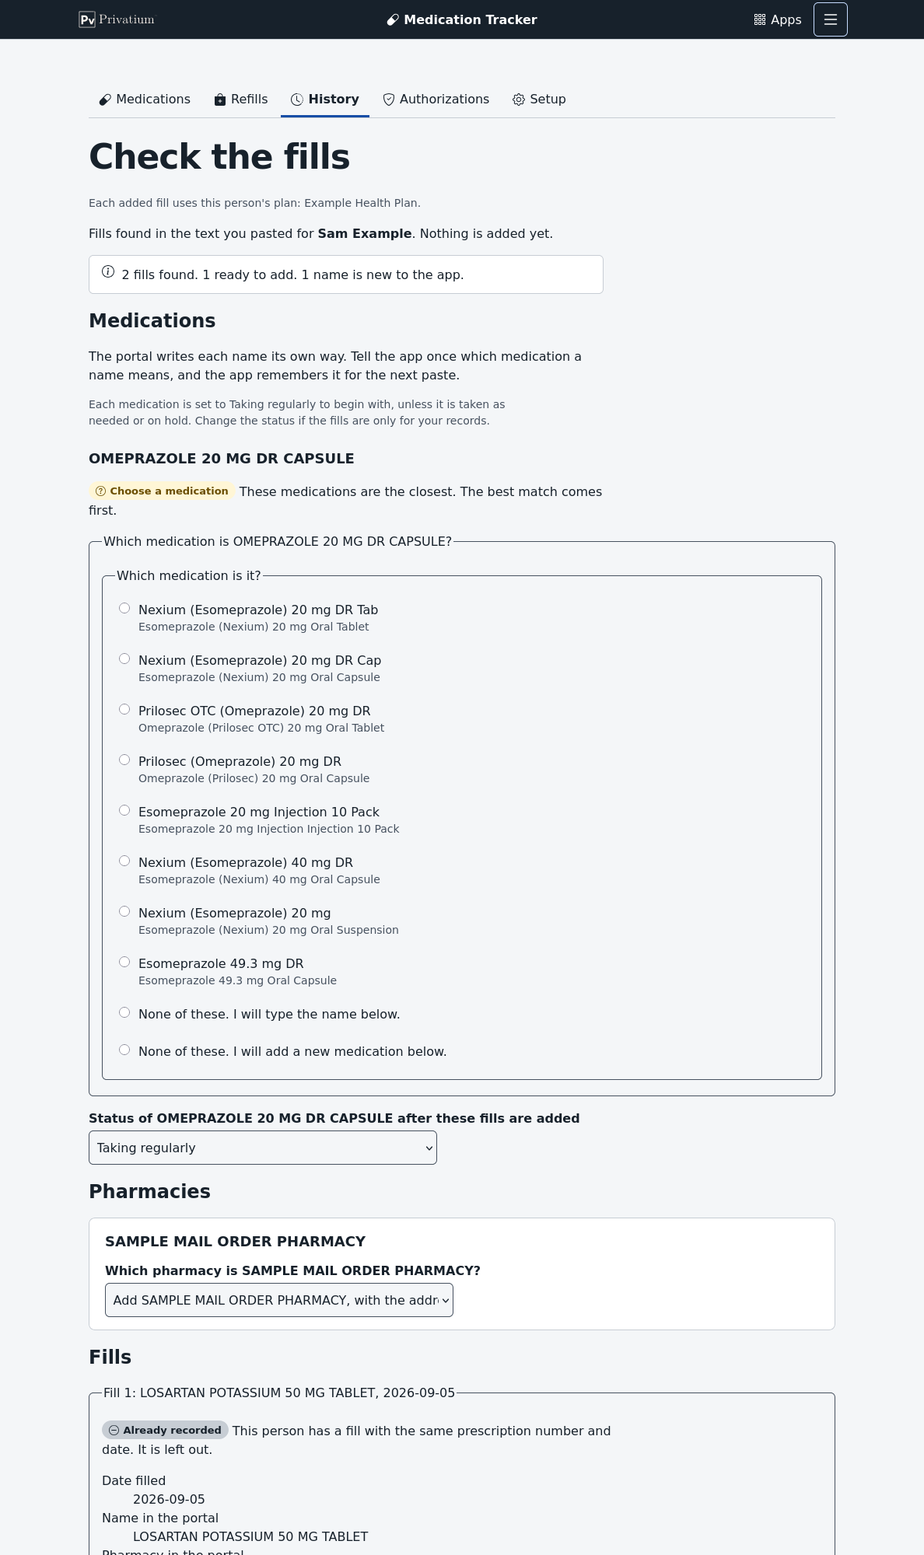
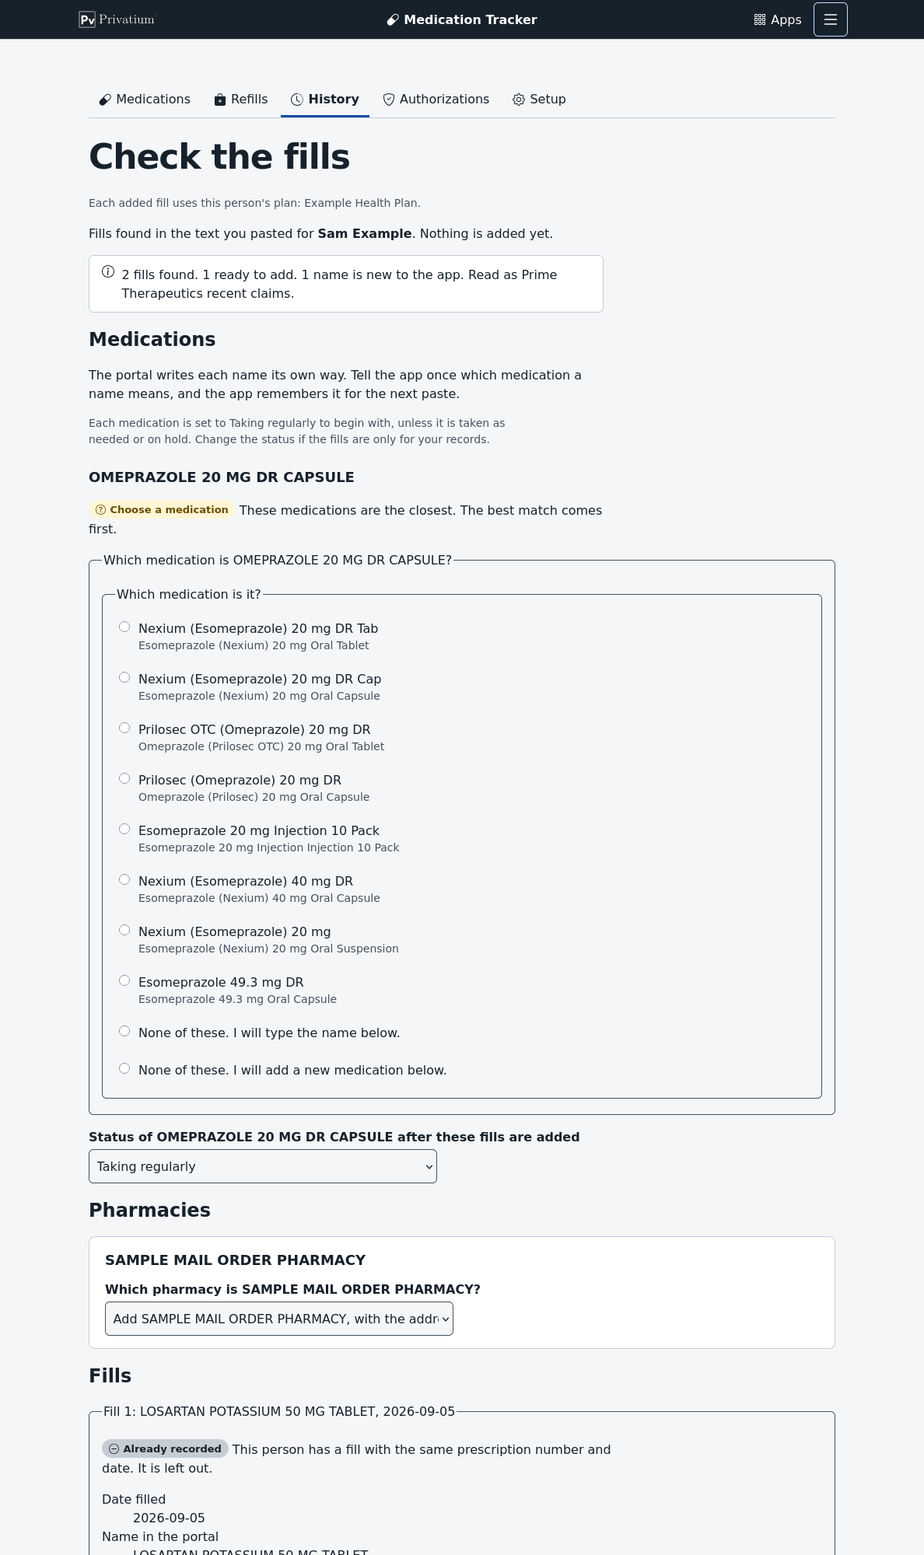
Document the portal pages the app reads
The user guide lists each page the app reads and how to copy it, and says
that pages listing medications without fill dates have nothing to read. The
architecture page describes the reader order, each page's layout with an
invented example, and the phone step of pharmacy matching. Compliance, the
app skill, the glossary, the testing how-to and the README follow, and the two
paste screenshots are retaken.

Changed region(s): [[0.0934, 0.186, 0.654, 1.0], [0.5918, 0.899, 0.6229, 0.93], [0.5295, 0.899, 0.5606, 0.93]]

diff --git a/docs/architecture.md b/docs/architecture.md
@@ -5,8 +5,8 @@ Author(s): Gabriel Mongefranco
 Created: 2026-09-26
 Last Modified: 2026-10-05
 Summary: How the app is built: its parts, the page frame and in-document navigation, the
-         rules every browser script follows, the product box, the reader of pasted portal
-         text, the catalog and the drug references, and the accessibility and security
+         rules every browser script follows, the product box, the readers of pasted portal
+         pages, the catalog and the drug references, and the accessibility and security
          design.
 Notes: See README file for documentation and full license information.
 
@@ -39,7 +39,7 @@ the SQLite tables from the log on every start.
 |---|---|---|
 | Manifest | `apps/meds/app.toml` | Slug, title, tier, icon, the three drug reference addresses under `permissions.remote`, and the `[ui]` table with the stylesheet, the scripts and swap navigation |
 | Routes | `apps/meds/lib/routes/` | One module per part of the app. `app.lua` requires them in the order paths are tried. |
-| Shared Lua | `apps/meds/lib/` | Form checks, names, matching, refill words, the portal reader and the one module that writes records (`store.lua`). Modules with no framework calls are unit-tested with plain Lua. |
+| Shared Lua | `apps/meds/lib/` | Form checks, names, matching, refill words, the portal reader with one reader per portal page under `lib/portals/`, and the one module that writes records (`store.lua`). Modules with no framework calls are unit-tested with plain Lua. |
 | Schema | `apps/meds/schema.sql` | Tables and views, including `v_supply` and `v_active_medication`, which work out the refill dates in SQL |
 | Templates | `apps/meds/views/` | One template per page. A name starting with `_` is a partial. |
 | Browser scripts | `apps/meds/static/*.js` | Five small scripts that improve forms. Every form works without them. |
@@ -203,9 +203,35 @@ close match.
 ### Pasted portal text
 
 `lib/portal_reader.lua` takes the pasted text of a portal page apart into claims. It
-looks for the labels the portal prints and takes the value after each one. This
-invented example shows the layout it reads. The portal runs the columns of a row
-together, as the second line shows.
+works out which page the text came from and hands it to that page's reader under
+`lib/portals/`. Each reader looks for the labels or columns its page prints and takes
+the values. All readers return claims of the same shape, so the review and add steps
+below are the same for every page. The readers are pure Lua, and `lib/portals/common.lua`
+holds the pieces they share: dates, amounts, phone numbers and tab-separated rows.
+
+The reader asks the pages in this order, and the first page that recognizes the text
+reads it. The claims page only looks for lines that open with a date, which the export
+rows also do, so it is asked last.
+
+| Order | Page | Module | Recognized by |
+|---|---|---|---|
+| 1 | Prime Therapeutics claims history export, copied from a spreadsheet | `portals/prime_export.lua` | A tab-separated heading row with Date of Service and Drug Name |
+| 2 | DromosPTM patient tax statement | `portals/dromos_statement.lua` | A row whose cells are empty, a date such as Oct 02, 2026, and a prescription number |
+| 3 | MyChart medications | `portals/mychart.lua` | A Refill Details line and a Pharmacy Details line |
+| 4 | Prime Therapeutics recent claims | `portals/prime_claims.lua` | A line that opens with a date written month/day/year |
+
+The review page names the page in its summary, such as "Read as MyChart medications."
+Pages that list medications without fill dates, such as the RxLocal medication list and
+the DromosPTM prescriptions list, are not read. A pasted text that no page recognizes
+gives a message that names the pages the app reads. No reader captures the HTML of the
+clipboard. The plain text of every page above keeps the boundaries the readers need,
+and the HTML of a page is many times larger than the 64 kilobytes a request holds.
+
+#### Prime Therapeutics recent claims
+
+This invented example shows the layout. The portal runs the columns of a row together,
+as the second line shows. The pharmacy name that stands alone in the details is what
+splits the drug name from the pharmacy name.
 
 ```text
 SERVICE DATEDRUG NAMEPHARMACYPLAN PAIDYOU PAIDCLAIM STATUS
@@ -244,11 +270,91 @@ $5.00
 | SERVICE DATE | The fill date, written month, day, year |
 | DRUG NAME | The medication, matched as below |
 | PHARMACY ID | The pharmacy, matched by its NPI |
-| PHARMACY | The pharmacy, matched by name when no NPI matches |
+| PHARMACY | The pharmacy, matched by phone number or name when no NPI matches |
 | RX NUMBER | The prescription number |
 | DAYS SUPPLY, QUANTITY | The days supply and the quantity |
 | Patient Responsibility | The amount paid |
 | Plan Paid, Deductible, CLAIM STATUS | Shown in the review, never stored |
+
+A claim whose details were closed has no prescription number or days supply. The
+review marks it **Details missing**.
+
+#### Prime Therapeutics claims history export
+
+The export is a file. A spreadsheet program copies it as rows of cells separated by
+tabs, with a heading row. The reader finds each column by its heading, so a change in
+the order of the columns does not break it. A cell that holds line breaks arrives in
+quotation marks, which the reader takes off. Shown here with `→` for each tab:
+
+```text
+Rx Number→Date of Service→Drug Name→Quantity→Days Supply→Pharmacy→Pharmacy ID→Plan Paid Amount→Patient Responsibility→Deductible→Claim Status
+100001→09/20/2026→EXAMPLINE 10 MG TABLET→30→30→EXAMPLE PHARMACY 1 EXAMPLE ST ANYTOWN, MI 48000 (555) 555-0100→1234567893→$12.00→$5.00→$0.00→Paid
+```
+
+The headings go to the same fields as the labels of the claims page. When the Pharmacy
+cell runs its parts together on one line, the phone number is split off the end, and the
+name ends before the first word made only of digits, where the street address starts.
+A claim with the status Denied is **Not paid**.
+
+#### MyChart medications
+
+MyChart lists prescriptions, not fills. Each medication that shows a **Last filled**
+date gives one fill, the most recent. The review summary counts the medications with no
+fill date, which are left out. A medication starts on its name, the line just before
+"Generic name:", "Commonly known as:" or "Learn more". A browser may copy a value on the
+same line as its label or on the next line, and the reader takes either.
+
+```text
+Examplol 10 mg tablet
+Generic name: exampline
+Learn more
+Prescription Details
+Prescription number100001-02
+Refill Details
+Quantity30 tablets
+Day supply30
+Last filledSeptember 3, 2026
+Pharmacy Details
+Example Pharmacy - Anytown, MI - 1 Example Street
+1 Example Street, Anytown MI 48000
+555-555-0100
+Map
+```
+
+| Label | Goes to |
+|---|---|
+| Last filled | The fill date |
+| Prescription number | The prescription number |
+| Quantity | The quantity, without its unit |
+| Day supply | The days supply |
+| Pharmacy Details | The pharmacy name, address and phone number, up to Map |
+
+The page gives no amount paid and no claim status, so a complete fill is **Ready**. The
+reader ignores the prescriber, the refill count and the next fill date.
+
+#### DromosPTM patient tax statement
+
+The statement lists one fill a row, with its cells separated by tabs. A copy rarely
+includes the heading row, so the reader knows the columns by their place on the page:
+Date Sold, Rx Number, Medication, Quantity, Days Supply, Doctor, Pharmacy, Primary
+Insurance / Cash, Insurance Portion and Patient Copay, after a first column that holds
+a button. The Medication cell has the product number (NDC) on a second line, and the
+Pharmacy cell has the phone number on a second line. So a row runs on over the next
+lines until it has all its cells.
+
+```text
+ →Sep 03, 2026→100001→EXAMPLINE 10MG TABS
+NDC: 00000-0000-00→30→30→Dr. PAT SAMPLE→Example Pharmacy
+(555) 555-0100→EXAMPLE PLAN→$12.00→$5.00
+```
+
+Patient Copay is the amount paid, and Insurance Portion is shown in the review as what
+the plan paid. The product number and the doctor are not stored. In a narrow window
+the page hides columns, so a row with fewer cells is left out rather than read into the
+wrong fields, and the review summary says to widen the window. When the copy does hold
+the heading row, the reader finds the columns by heading instead.
+
+#### Matching
 
 For each drug name, the app looks for a medication in this order:
 
@@ -265,6 +371,13 @@ Prescription numbers are compared without hyphens and spaces, through `fills.rx_
 and only within one person. Step 3 compares whole words and whole strengths, so "5 mg"
 is not found in "0.5 mg" or "25 mg". When two medications pass a step, the app picks
 neither. The portal's name is saved as another name of the medication chosen.
+
+For each pharmacy, the app looks for one it knows by NPI first, then by phone number,
+then by name. Phone numbers are compared by their digits, without a leading country code
+1, and only when they have at least ten digits. A phone number that two known
+pharmacies share picks neither. The phone step exists because portals write the same
+pharmacy's name in different ways, with or without its town and street. A known
+pharmacy is used as it is; any other is offered to add, with the details from the page.
 
 A fill is already recorded when the person has a fill with the same prescription number
 and date, or a fill of the same tracked medication on the same date. The second rule

diff --git a/docs/usage.md b/docs/usage.md
@@ -82,7 +82,7 @@ offline. Changes you make offline are kept and sent when the connection comes ba
 3. Add each person's medicines, as [Add a medicine to someone's list](#add-a-medicine-to-someones-list)
    shows.
 4. Record the last fill of each medicine, so the app can work out the next one. You can
-   type it, or copy it from your insurance website.
+   type it, or [copy it from a portal website](#copy-fills-from-a-portal-website).
 
 You don't have to set everything up first. Whenever a form asks for a person, doctor,
 pharmacy or plan that isn't in the app yet, you can add it right there.
@@ -226,22 +226,35 @@ page and pick the medicine. If nobody tracks that medicine yet, choose **-- Anot
 medication --**, pick the person and find the product. Saving the fill also adds the
 medicine to that person's list.
 
-### Copy fills from your insurance website
+### Copy fills from a portal website
 
-![The Copy refill history from patient portal page. A drop-down asks who the refill history belongs to, and a large box holds text copied from a portal.](images/copy-refill-history.png)
+![The Copy refill history from patient portal page. It lists the four portal pages the app reads, with how to copy each. Below, a drop-down asks who the refill history belongs to, and a large box holds text copied from a portal.](images/copy-refill-history.png)
 
-Your insurance plan's or pharmacy's website, often called a patient portal, lists the
-fills it paid for. Instead of typing each one, you can copy the list and let the app read
+Your insurance plan's, pharmacy's or doctor's website, often called a patient portal,
+lists your fills. Instead of typing each one, you can copy the list and let the app read
 it. Nothing is added until you check it.
 
-1. On the portal, open the details of each fill, so they show on the screen.
-2. Select the list from the first date to the end of the last fill, and copy it.
-3. In the app, choose **Refills**, then **Copy refill history from patient portal**.
-4. Choose who the fills belong to, paste the text and choose **Read the text**.
-5. Check the review page, described below.
-6. Choose **Add fills**.
+The app reads these pages. The table says how to copy each one.
 
-![The review page, titled Check the fills. A summary says 2 fills found, 1 ready to add and 1 name new to the app. For the portal name OMEPRAZOLE 20 MG DR CAPSULE, the page lists the closest catalog products to choose from, then a status drop-down set to Taking regularly. Below, a new pharmacy is offered to add, and the first fill is marked Already recorded.](images/copy-refill-history-review.png)
+| Website and page | How to copy it |
+|---|---|
+| Prime Therapeutics, **Recent claims** | Open the details of each fill with **More Info**. Then select the list from the first date to the end of the last fill. |
+| Prime Therapeutics, claims history export | Download the export and open the file in a spreadsheet program, such as LibreOffice Calc or Excel. Select the table, headings included. |
+| MyChart, **Medications** | Select the whole list. MyChart shows only the most recent fill of each medicine, so you get one fill per medicine. |
+| DromosPTM pharmacy websites, such as Henry Ford and Meijer, **Patient tax statement** | Use a computer, and make the window wide enough to show every column. Then select the table. |
+
+Some pages list your medicines but no fill dates, such as the RxLocal medication list
+and the DromosPTM prescriptions list. They have no fills to copy. Use the pages above
+instead.
+
+1. On the website, open the page and copy it as the table says.
+2. In the app, choose **Refills**, then **Copy refill history from patient portal**.
+3. Choose who the fills belong to, paste the text and choose **Read the text**.
+4. Check the review page, described below. Its summary names the page the app read,
+   such as "Read as MyChart medications".
+5. Choose **Add fills**.
+
+![The review page, titled Check the fills. A summary says 2 fills found, 1 ready to add and 1 name new to the app, read as Prime Therapeutics recent claims. For the portal name OMEPRAZOLE 20 MG DR CAPSULE, the page lists the closest catalog products to choose from, then a status drop-down set to Taking regularly. Below, a new pharmacy is offered to add, and the first fill is marked Already recorded.](images/copy-refill-history-review.png)
 
 The review page asks about each medicine name and each pharmacy only once, however many
 fills use it.
@@ -265,25 +278,27 @@ person takes the medicine. A medicine that is **Taking as needed** or **On hold*
 its status instead. If you are only copying old fills for your records, pick the status
 the medicine should keep, such as **No longer taking**.
 
-**Pharmacies.** The app matches a pharmacy by its number or its name. For a new one, it
-offers to add it with the address and phone number from the portal.
+**Pharmacies.** The app matches a pharmacy by its NPI number, then by its phone number,
+then by its name. The phone number helps when two websites write the same pharmacy's
+name differently. For a new pharmacy, the app offers to add it with the address and
+phone number from the portal.
 
 **Fills.** Each fill has a check box labeled **Add this fill**.
 
 | Result | What it means |
 |---|---|
 | Ready | Everything was read. The box is ticked for you. |
-| Not paid | The plan didn't pay this claim. Tick it only if you did get the medicine. |
+| Not paid | The plan didn't pay this claim, or denied it. Tick it only if you did get the medicine. |
 | Already recorded | You already have this fill, so it is left out. |
-| Details missing | The details weren't open on the portal. Open them and copy again. |
+| Details missing | The details weren't open on the Prime claims page. Open them and copy again. |
 | Could not read | A date or number didn't make sense. The row says which one. |
 
 If you choose **Add fills** while a question is still open, the page comes back and
 marks it. Each added fill uses the person's current plan and lowers that medicine's
 refills left by one. Pasting the same list twice adds nothing the second time.
 
-The app reads one portal layout. If your portal lays out its page differently, the
-review says "No fills can be added from this text." Record those fills by hand.
+If the app doesn't know the page you pasted, it says "The app found no fills in that
+text" and names the pages it reads. Record those fills by hand.
 
 ### Keep track of insurance approvals
 
@@ -520,8 +535,8 @@ folder, apart from the app's folder.
 
 ### Conclusion
 
-You can now keep each person's medicine list, record fills by hand or from your
-insurance website, and see what needs a refill before it runs out. For the reasons
+You can now keep each person's medicine list, record fills by hand or from a
+portal website, and see what needs a refill before it runs out. For the reasons
 behind the dates, read [How the app works](how-it-works.md).
 
 ### Additional resources

diff --git a/docs/compliance.md b/docs/compliance.md
@@ -55,7 +55,8 @@ paid. The [data model](data-model.md) marks each such column.
 | The browser keeps the person tab chosen last by id only | `static/person_tab.js` | Read in the code. No name reaches local storage. |
 | A website becomes a link only with `http` or `https` | `validate.website` | Unit tests and the smoke test send a `javascript:` address. |
 | A page address carries ids and codes only | `lib/page.lua` turns a known code into a sentence | The smoke test sends markup as a code and as an id. |
-| Pasted portal text is untrusted | `lib/portal_reader.lua` only takes the text apart. The add step reads the text again and checks every value again. | The smoke test asks to add rows that the review refused. |
+| Pasted portal text is untrusted | `lib/portal_reader.lua` and the page readers under `lib/portals/` only take the text apart. The add step reads the text again and checks every value again. | The smoke test asks to add rows that the review refused. Unit tests read invented copies of each page the app reads, and keep markup in a pasted name as text. |
+| A pasted pharmacy is matched by phone number only when one pharmacy has it | `pharmacy_of` in `lib/routes/paste.lua` compares at least ten digits | The smoke test pastes a pharmacy whose name differs and whose phone number matches, and checks that no pharmacy is added. |
 | A close match never picks a medication | `lib/medication_pick.lua`, `lib/medication_search.lua` | The smoke test types a misspelled name and a name that fits two medications. Both come back as a question. |
 | A pasted name picks a medication only with the same name and the same strength | `lib/written_name.lua` | Unit tests check that "5 mg" is not found in "0.5 mg", "2.5 mg", "25 mg" or "875-5 mg". The review page marks the match before anything is added. |
 | A record added from inside another form passes the same checks | `lib/quick_add.lua`, `lib/catalog_entry.lua` | The smoke test sends a name that is too long and a new medication with no name. |

diff --git a/apps/meds/SKILL.md b/apps/meds/SKILL.md
@@ -67,7 +67,8 @@ view, and must change in the same commit as `schema.sql`.
 | `lib/entries.lua` | Reads the tracked medications with their products, refill dates, words, groups and search text |
 | `lib/refill.lua` | Pure Lua: the group and the words of a refill status, and the status a new fill leads to |
 | `lib/fills.lua` | Checks a fill and writes it, with the tracked medication that goes with it |
-| `lib/portal_reader.lua` | Pure Lua: takes the pasted text of a portal page apart into claims |
+| `lib/portal_reader.lua` | Pure Lua: works out which page a pasted text came from and hands it to that page's reader |
+| `lib/portals/` | Pure Lua: one reader for each portal page the app reads, and `common.lua` with the dates, amounts, phone numbers and tab-separated rows they share. A new page gets its own module and a place in the order in `portal_reader.lua`. |
 | `lib/authorization_watch.lua` | Finds the prior authorizations that end soon or have ended |
 | `lib/people_filter.lua` | The person filter that list pages share |
 | `lib/store.lua` | The one place that writes and removes records |
@@ -187,7 +188,7 @@ view, and must change in the same commit as `schema.sql`.
   it.
 - Every time and date on a screen is local. Read them from `lib/clock.lua`, and use
   `date('now', 'localtime')` in SQL.
-- Pasted text is untrusted. `portal_reader` only takes it apart; `fills.read` checks every
+- Pasted text is untrusted. `portal_reader` and the readers under `lib/portals/` only take it apart; `fills.read` checks every
   value, and the add step reads the text again instead of trusting the review form.
 - A close match in a search is a suggestion. Code never picks a medication from one.
   Two things pick one: a name that exactly one medication answers to, and a pasted name

diff --git a/README.md b/README.md
@@ -26,7 +26,7 @@ with this program. If not, see <https://www.gnu.org/licenses/>.
 ## Description
 Medication Tracker helps a family keep track of everyone's prescriptions, so nobody runs out. It runs on your own computer with [Privatium](https://github.com/gabrielmongefranco/privatium), a free program that keeps your records at home instead of on a company's servers.
 
-The app shows which refills are due and when to order them. It aims to refill while a small backup supply is still on hand, but never before your insurance will pay, so medicine doesn't pile up at home. It keeps each person's medication list, ready to print for a doctor's visit. You can record fills by hand, or copy them from your insurance plan's website. It also reminds you when a prescription has no refills left and when an insurance approval is about to end.
+The app shows which refills are due and when to order them. It aims to refill while a small backup supply is still on hand, but never before your insurance will pay, so medicine doesn't pile up at home. It keeps each person's medication list, ready to print for a doctor's visit. You can record fills by hand, or copy them from your insurance plan's, pharmacy's or doctor's website. It also reminds you when a prescription has no refills left and when an insurance approval is about to end.
 
 ![The Refills page of Medication Tracker, with an invented family. A summary counts what is overdue, due and due soon, and a table lists each medicine with its next fill date and a Record fill button.](docs/images/refills.png)
 

diff --git a/docs/how-to/run-the-tests.md b/docs/how-to/run-the-tests.md
@@ -78,7 +78,7 @@ Run them all from the root of the repository.
 | Check | Covers |
 |---|---|
 | Lint | The rules of Privatium for an app: bound SQL parameters, the `csrf()` token in every form, labels on every field, heading order, and more |
-| Unit tests | The Lua modules with no framework calls: cleaning text, checking dates, numbers, amounts, phone numbers, email and website addresses, building a short name, merging choices, matching names, refill words, reading a pasted portal page, taking apart a name as a portal wrote it, the words of a drug reference, and the icon of a dose form |
+| Unit tests | The Lua modules with no framework calls: cleaning text, checking dates, numbers, amounts, phone numbers, email and website addresses, building a short name, merging choices, matching names, refill words, reading each portal page the app knows, from invented copies, taking apart a name as a portal wrote it, the words of a drug reference, and the icon of a dose form |
 | Supply and catalog tests | The refill dates against a day-by-day simulation, date edges, the special frame values, invalid rules and view grain; the catalog builder against invented reference answers |
 | Smoke test | The screens over HTTP, on a real node: adding, changing and removing records, empty and invalid input, the longest values, and requests that must be refused |
 

diff --git a/docs/glossary.md b/docs/glossary.md
@@ -48,7 +48,7 @@ them all before you start. Come back here when a word on a screen is new to you.
 | **Insurance plan** or **payer** | Whoever pays for a fill. Usually your insurance plan. When you pay the whole price yourself, the app calls it **Cash**. |
 | **Claim** | The request the pharmacy sends to your plan to get paid for a fill. Each claim has a claim number. |
 | **Deductible** | The amount you must pay yourself each year before your plan starts to pay. |
-| **Patient portal** | Your plan's or your pharmacy's website, where you can see the fills it paid for. |
+| **Patient portal** | Your plan's, pharmacy's or doctor's website, where you can see your fills or your list of medicines. MyChart is one. |
 | **Early refill** | Most plans won't pay for a refill until most of the last fill is used up. Pharmacies call an early request "refill too soon". The app estimates the first day your plan will pay. |
 | **Early fill percent** | How much of the last fill may be left when the plan pays for the next one. Many plans allow about 25 percent. For a 30-day fill, that is about 7 days early. |
 | **Supply frame** | The number of past days the plan looks at when it adds up your fills. Many plans look back about 180 days. |
